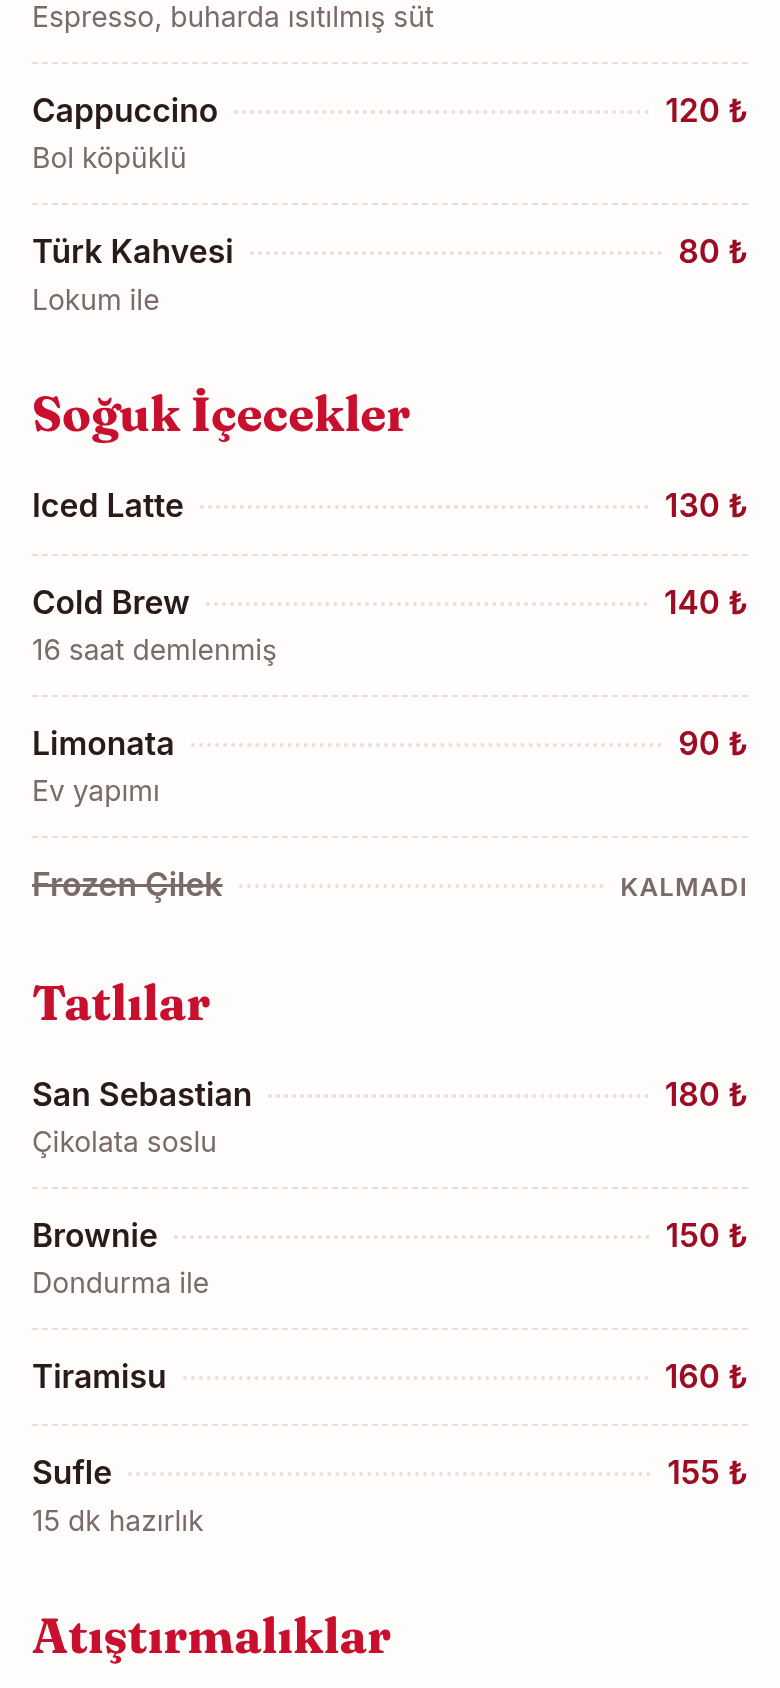
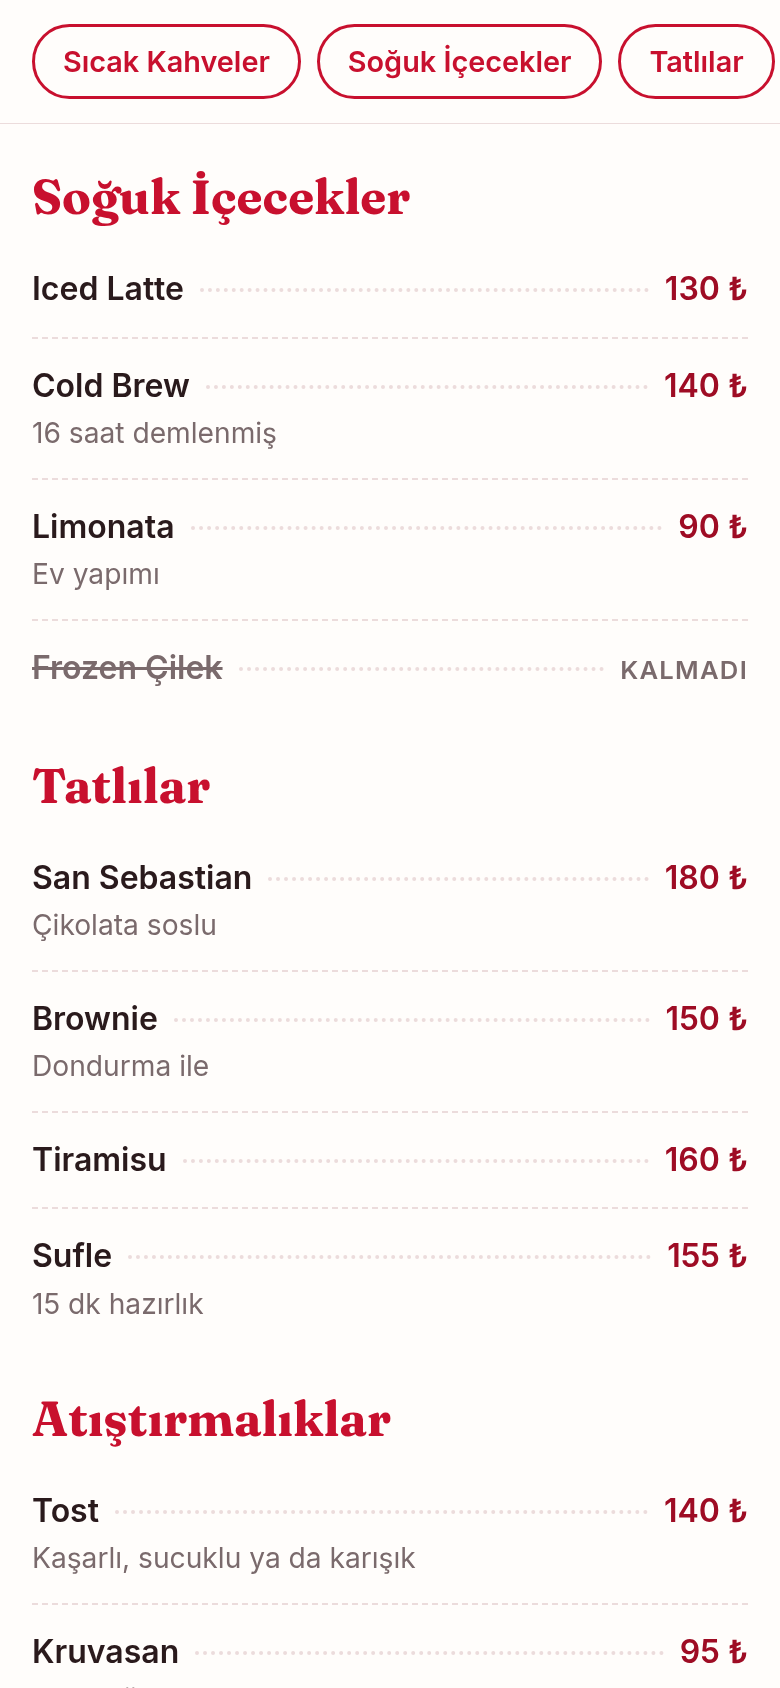
fix: make the phones in the pitch deck look like real phones and show a clean scrolled menu

diff --git a/tanitim/index.html b/tanitim/index.html
@@ -26,9 +26,14 @@ ul.points span { color: var(--muted); font-size: 3.7mm; }
 .note { position: absolute; left: 22mm; bottom: 8mm; font-size: 3mm; color: var(--muted); }
 
 /* telefon çerçevesi */
-.phone { width: 62mm; aspect-ratio: 390 / 844; border: 2.6mm solid #1d1416; border-radius: 9mm; overflow: hidden; background: #000; box-shadow: 0 4mm 10mm rgb(0 0 0 / .18); }
-.phone img { display: block; width: 100%; height: 100%; object-fit: cover; object-position: top; }
-.phone.tilt { transform: rotate(4deg) translateY(6mm); }
+.phone { position: relative; width: 62mm; aspect-ratio: 390 / 844; border: 1.6mm solid #1d1416; border-radius: 10mm; overflow: hidden; background: var(--bg); display: flex; flex-direction: column; box-shadow: 0 0 0 .5mm #4a3d3f, 0 6mm 14mm rgb(0 0 0 / .22); }
+.phone::before { content: ""; position: absolute; top: 1.7mm; left: 50%; translate: -50% 0; width: 17mm; height: 4.6mm; border-radius: 3mm; background: #000; z-index: 1; }
+.phone .status { flex: none; height: 8mm; display: flex; justify-content: space-between; align-items: center; padding: 0 6.5mm; font: 600 2.7mm Inter, sans-serif; background: var(--red); color: #fff; }
+.phone .status.light { background: var(--bg); color: var(--ink); }
+.phone .bat { display: inline-block; width: 5mm; height: 2.4mm; border: .3mm solid currentColor; border-radius: .7mm; box-shadow: inset 0 0 0 .3mm var(--red), inset 4mm 0 0 currentColor; vertical-align: middle; }
+.phone .status.light .bat { box-shadow: inset 0 0 0 .3mm var(--bg), inset 4mm 0 0 currentColor; }
+.phone img { flex: 1; min-height: 0; display: block; width: 100%; object-fit: cover; object-position: top; }
+.phone.lower { transform: translateY(12mm); }
 
 /* kapak */
 .cover { background: var(--red); color: #fff; flex-direction: column; align-items: center; justify-content: center; text-align: center; }
@@ -89,8 +94,8 @@ ol.steps span { color: var(--muted); font-size: 3.6mm; }
     </ul>
   </div>
   <div class="visual">
-    <div class="phone"><img src="img/phone-top.png" alt=""></div>
-    <div class="phone tilt"><img src="img/phone-soldout.png" alt=""></div>
+    <div class="phone"><div class="status"><span>9:41</span><i class="bat"></i></div><img src="img/phone-top.png" alt=""></div>
+    <div class="phone lower"><div class="status light"><span>9:41</span><i class="bat"></i></div><img src="img/phone-soldout.png" alt=""></div>
   </div>
   <p class="pageno">2</p>
 </section>
